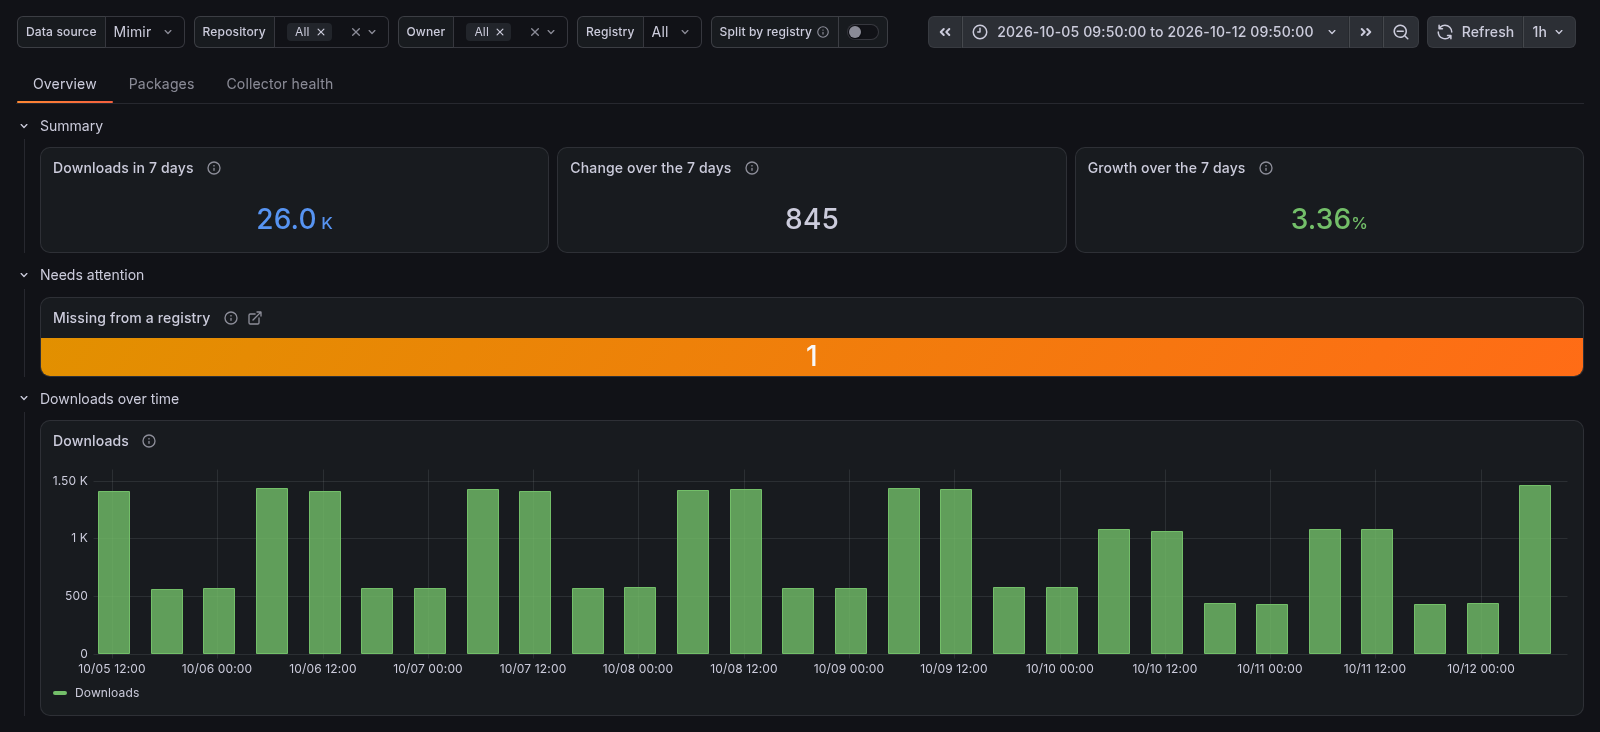
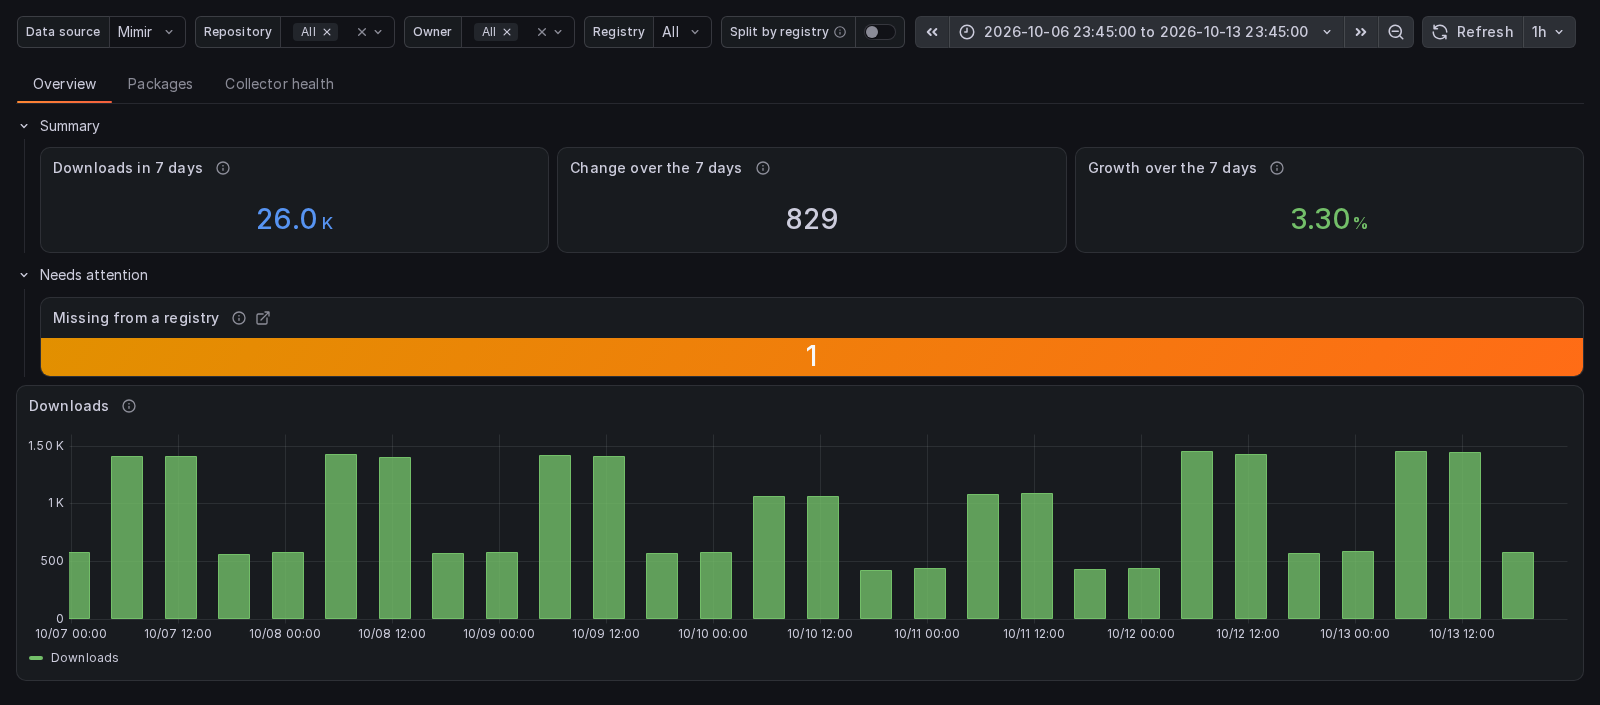
fix: drop row headers that fold a single dashboard panel
The Overview's Downloads over time row and the Packages tab's Unused packages row each held one panel behind a collapsible header. Both rows now hide their header, so the chart and the Not pulled table show directly. A dashboard test fails when a row with a visible header holds fewer than two always-visible panels, unless the row holds only attention tiles. The README header image and the monitoring guide follow the new layout.

diff --git a/dashboard_test.go b/dashboard_test.go
@@ -690,14 +690,17 @@ var badCaseFilter = regexp.MustCompile(`\s(?:[<>]=?|[!=]=)\s+-?\d|\bunless\b`)
 // hiddenTables are the tables whose normal state is empty, so they show only with rows.
 var hiddenTables = []string{"Not pulled in ${span} ${spanunit}"}
 
-// hiddenPanels returns the attention tiles, stats painted on a coloured background, and
-// the hiddenTables.
+// isAttentionTile reports whether p is an attention tile: a stat painted on a coloured background.
+func isAttentionTile(p dashPanel) bool {
+	return p.Spec.VizConfig.Group == "stat" && p.Spec.VizConfig.Spec.Options.ColorMode == "background"
+}
+
+// hiddenPanels returns the attention tiles and the hiddenTables.
 func hiddenPanels(t *testing.T) map[string]dashPanel {
 	t.Helper()
 	hidden := map[string]dashPanel{}
 	for name, p := range loadPanels(t) {
-		tile := p.Spec.VizConfig.Group == "stat" && p.Spec.VizConfig.Spec.Options.ColorMode == "background"
-		if tile || slices.Contains(hiddenTables, p.Spec.Title) {
+		if isAttentionTile(p) || slices.Contains(hiddenTables, p.Spec.Title) {
 			hidden[name] = p
 		}
 	}
@@ -1028,6 +1031,67 @@ func TestDashboard_HiddenPanelRowsShowWhileAnyPanelHasData(t *testing.T) {
 			t.Errorf("variable %s counts %d arms, want %d, one per hidden panel query", variable, got, want)
 		}
 	}
+}
+
+// A header that folds one chart or table costs a click and hides whether more sits behind
+// it, so a row whose header shows holds at least two always-visible panels. A row of
+// attention tiles is exempt: each shows only with data, and together they light several.
+func TestDashboard_RowHeadersFoldSeveralPanels(t *testing.T) {
+	var rows []map[string]any
+	var walk func(v any)
+	walk = func(v any) {
+		switch n := v.(type) {
+		case map[string]any:
+			if spec, _ := n["spec"].(map[string]any); n["kind"] == "RowsLayoutRow" {
+				rows = append(rows, spec)
+			}
+			for _, child := range n {
+				walk(child)
+			}
+		case []any:
+			for _, child := range n {
+				walk(child)
+			}
+		}
+	}
+	walk(loadDoc(t))
+	if len(rows) == 0 {
+		t.Fatal("no row found; the pattern no longer reads the dashboard")
+	}
+	panels := loadPanels(t)
+	for _, row := range rows {
+		if row["hideHeader"] == true {
+			continue
+		}
+		items, _ := dig(row, "layout", "spec", "items").([]any)
+		shown, tiles := 0, 0
+		for _, it := range items {
+			rule := dig(it, "spec", "conditionalRendering")
+			name, _ := dig(it, "spec", "element", "name").(string)
+			switch {
+			case rule == nil:
+				shown++
+			case showsOnData(rule) && isAttentionTile(panels[name]):
+				tiles++
+			}
+		}
+		if shown < 2 && (shown > 0 || tiles < 2 || tiles != len(items)) {
+			t.Errorf("row %q shows its header over %d always-visible panels and %d attention tiles of %d, "+
+				"want two always-visible panels, a row of attention tiles, or hideHeader",
+				row["title"], shown, tiles, len(items))
+		}
+	}
+}
+
+// showsOnData reports whether rule holds a has-data rule that shows its item.
+func showsOnData(rule any) bool {
+	items, _ := dig(rule, "spec", "items").([]any)
+	for _, it := range items {
+		if dig(it, "kind") == "ConditionalRenderingData" && dig(it, "spec", "value") == true {
+			return true
+		}
+	}
+	return false
 }
 
 // rangeWordVars are the variables a title names the range's length with.

diff --git a/docs/monitoring.md b/docs/monitoring.md
@@ -58,7 +58,7 @@ The Overview's summary is three tiles, each naming the range: Downloads in 30 da
 
 A tile with an alert shows while that alert fires. Where your ruler does not load the rule, the tile checks the rule's condition itself, held for the rule's `for:`, whatever the time range. So no tile lights for a blip its alert ignores, such as a scrape missed during a restart or one failed check in a short registry outage. Collector not reporting, like its two alerts, needs the scrape job to be called `registry-stats`. Grafana also hides a tile whose query fails, so a data source outage shows as errors on the summary, the package tables and the chart, never as a tile. An outage that starts while the page is open can leave the Needs attention heading on screen with no tile under it until the data source answers again. A tile's link opens the tab that explains it.
 
-On the Packages tab, Package downloads lists every package with its downloads in the range, largest first, in a list that scrolls and sorts by any column. Its rows add up to the Downloads tile, because each package and registry is rounded before any sum. Movers lists the three packages whose downloads changed most up or down, and Recent pushes the three GHCR packages pushed last. Downloads of the top 10 packages draws those 10 as stacked bars. It leaves the others to Package downloads, because the colours of 250 packages cannot be told apart. Below them, an Unused packages row with the Not pulled table appears only while that table has a row, and pages through its rows.
+On the Packages tab, Package downloads lists every package with its downloads in the range, largest first, in a list that scrolls and sorts by any column. Its rows add up to the Downloads tile, because each package and registry is rounded before any sum. Movers lists the three packages whose downloads changed most up or down, and Recent pushes the three GHCR packages pushed last. Downloads of the top 10 packages draws those 10 as stacked bars. It leaves the others to Package downloads, because the colours of 250 packages cannot be told apart. Below them, the Not pulled table appears only while it has a row, and pages through its rows.
 
 Missing from a registry pairs images by owner and name. A GHCR package with a slash in its name is never compared, because a Docker Hub repository name cannot hold one. With `owner/*` on both, a package you publish to one registry on purpose stays counted while the configuration covers it. A stale or incomplete read counts nothing, and Registry data stale or Collector not reporting shows instead. The tile's link opens the Packages tab with Split by registry on, where Package downloads gives each package a row for every registry that reported it in the range.
 
